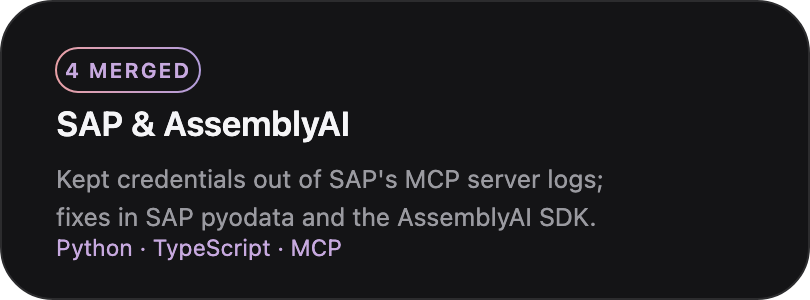
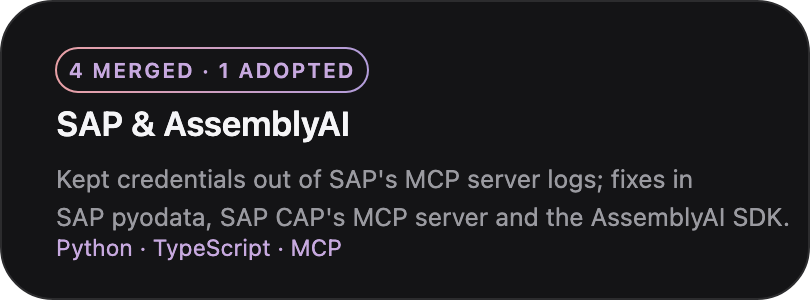
Open source card: SAP CAP MCP server containment fix, adopted upstream

Changed region(s): [[0.0617, 0.69, 0.9877, 0.78], [0.0617, 0.15, 0.463, 0.33], [0.7407, 0.57, 0.8642, 0.63]]

diff --git a/build_cards.py b/build_cards.py
@@ -170,9 +170,9 @@ OPEN_SOURCE = [
      "Python · asyncio · openai-agents-python", "3 MERGED · 4 FOUND"),
 
     ("card-oss-sap.svg", "SAP & AssemblyAI",
-     ["Kept credentials out of SAP's MCP server logs;",
-      "fixes in SAP pyodata and the AssemblyAI SDK."],
-     "Python · TypeScript · MCP", "4 MERGED"),
+     ["Kept credentials out of SAP's MCP server logs; fixes in",
+      "SAP pyodata, SAP CAP's MCP server and the AssemblyAI SDK."],
+     "Python · TypeScript · MCP", "4 MERGED · 1 ADOPTED"),
 
     ("card-oss-a2a.svg", "A2A Python SDK",
      ["Google's Agent2Agent protocol SDK (Linux Foundation):",

diff --git a/README.md b/README.md
@@ -23,7 +23,7 @@
 </a>
 &nbsp;
 <a href="https://github.com/search?q=author%3Akosesena+is%3Apr+is%3Amerged+-user%3Akosesena&type=pullrequests">
-  <img width="405" src="./card-oss-sap.png" alt="SAP & AssemblyAI — merged fixes in SAP aas-mcp-server, SAP python-pyodata and the AssemblyAI SDK" />
+  <img width="405" src="./card-oss-sap.png" alt="SAP & AssemblyAI — merged fixes in SAP aas-mcp-server, SAP python-pyodata and the AssemblyAI SDK, plus a containment fix for SAP cap-js/mcp-server that the maintainer adopted and merged in his own PR" />
 </a>
 
 <br/>
